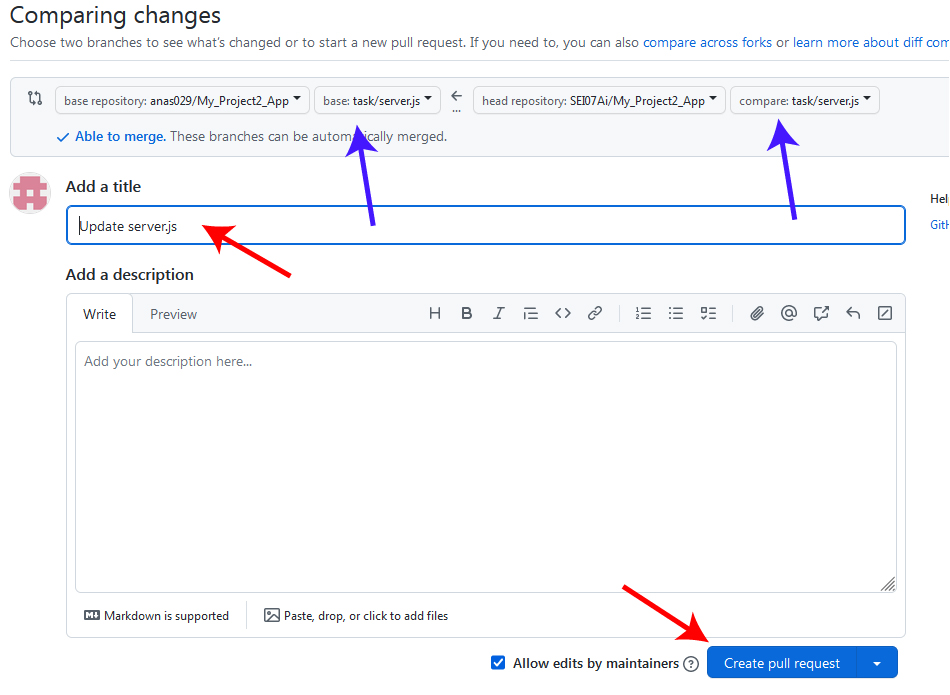
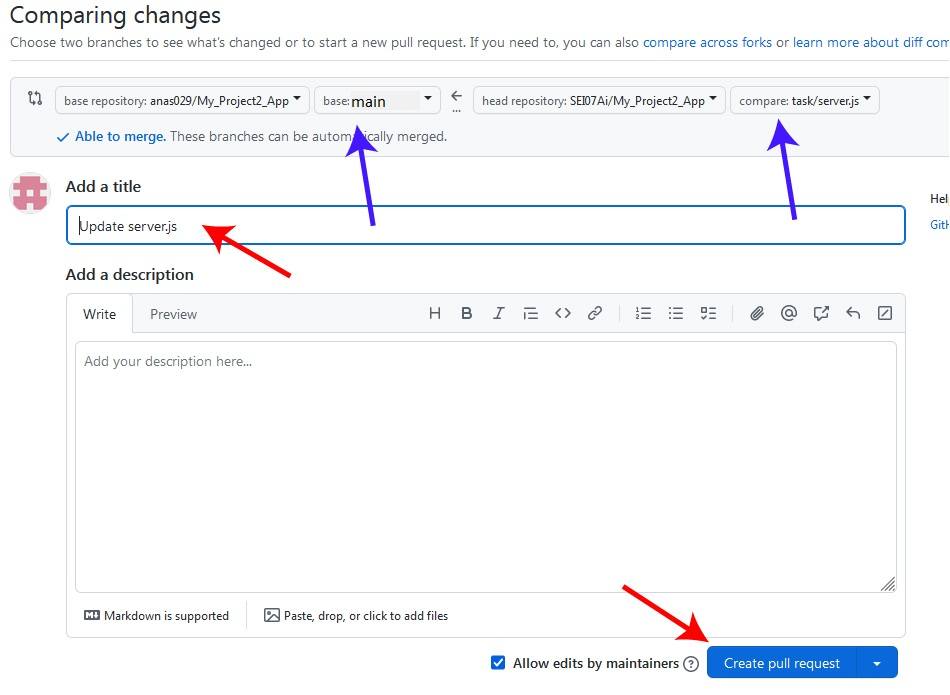
change branch name to main

diff --git a/README.md b/README.md
@@ -9,45 +9,45 @@ This README provides a comprehensive guide for team leader and team members on s
 1. Navigate to your GitHub account.
 2. Click on the '+' icon in the top right corner and select "New repository".
 
-    ![New Repo](./images/new_repo.jpg)
+   ![New Repo](./images/new_repo.jpg)
 
 3. Fill in the repository name, description, and choose visibility options.
-4. Initialize with a README if needed.
+4. Initialize with a README. And gitignore if needed.
 5. Click "Create repository."
 
-    ![Create Repo](./images/create_repo.jpg)
+   ![Create Repo](./images/create_repo.jpg)
 
 ## 2. Set Up Rules: `Team Leader`
 
 1. Click on the "Settings" tab.
 
-    ![Settings Repo](./images/settings.jpg)
+   ![Settings Repo](./images/settings.jpg)
 
 2. In the left sidebar, click on "Branches".
 
-    ![Branches](./images/branches.jpg)
+   ![Branches](./images/branches.jpg)
 
 3. Under the "Branch protection rules" section, click on the "Add branch protection rule" button.
 
-    ![Branches](./images/protection.jpg)
+   ![Branches](./images/protection.jpg)
 
 4. Type "main" in "Branch name pattern"
 
-    ![Branches](./images/main_branch.jpg)
+   ![Branches](./images/main_branch.jpg)
 
 5. Check "Require a pull request before merging"
 
-    ![Branches](./images/Require_pull.jpg)
+   ![Branches](./images/Require_pull.jpg)
 
 6. Click on "Create".
 
-    ![Branches](./images/rule_create.jpg)
+   ![Branches](./images/rule_create.jpg)
 
 ## 3. Clone the Repository: `Team Leader`
 
 1. On your repository, click the "Code" button and copy the repository URL.
 
-    ![Clone Repo](./images/clone_repo.jpg)
+   ![Clone Repo](./images/clone_repo.jpg)
 
 2. Open your terminal and run:
 
@@ -93,17 +93,17 @@ git push --set-upstream origin your-branch-name
 
 2. Click on the "Fork" button in the top right corner of the repository page and then "Create a new fork".
 
-    ![Clone Repo](./images/fork.jpg)
+   ![Clone Repo](./images/fork.jpg)
 
 3. Uncheck "Copy the main branch only" and click "Create fork"
 
-    ![Clone Repo](./images/create_fork.jpg)
+   ![Clone Repo](./images/create_fork.jpg)
 
 ## 5. Clone the Repository: `Team member`
 
 1. Make sure your are on your repository, click the "Code" button and copy the repository URL.
 
-    ![Clone Repo](./images/clone_TM.jpg)
+   ![Clone Repo](./images/clone_TM.jpg)
 
 2. Open your terminal and run:
 
@@ -166,15 +166,15 @@ Once you pushed your changes, GitHub will promote you to create a pull request.
 
 1. Click on "Compare & pull request"
 
-    ![pull request](./images/Pull_request.jpg)
+   ![pull request](./images/Pull_request.jpg)
 
-2. Make sure you are requesting a pull from and to the correct branches. Then, click on "Create pull request"
+2. Make sure you are requesting a pull from the correct branch to main branch. Then, click on "Create pull request"
 
-    ![Create pull request](./images/Create_Pull_request.jpg)
+   ![Create pull request](./images/Create_Pull_request.jpg)
 
-    If there is no conflict you should see a message like this.
+   If there is no conflict you should see a message like this.
 
-    ![No conflict](./images/no_conflict.jpg)
+   ![No conflict](./images/no_conflict.jpg)
 
 ## 9. Accept Pull Request: `Team Leader`
 
@@ -182,36 +182,36 @@ Team leader will accept the change and merge to the main repo.
 
 1. On your (team leader) project repository, click on "Pull requests".
 
-    ![new_pull_request](./images/new_pull_request.jpg)
+   ![new_pull_request](./images/new_pull_request.jpg)
 
 2. Click on the pull request you want to accept and merge.
 
-    ![new_pull_request](./images/pull_request_name.jpg)
+   ![new_pull_request](./images/pull_request_name.jpg)
 
 3. If there is no conflict, Click on "Merge pull request".
 
-    ![merge_pull_request](./images/merger_pull_request.jpg)
+   ![merge_pull_request](./images/merger_pull_request.jpg)
 
 4. Click on "Confirm merge".
 
-    ![confirm_merge](./images/confirm_merge.jpg)
+   ![confirm_merge](./images/confirm_merge.jpg)
 
-    Once you are 100% sure about the new merge, you can create a pull request to merge this branch to main branch.
+   Once you are 100% sure about the new merge, you can create a pull request to merge this branch to main branch.
 
 5. Under pull requests, click on "New pull request".
 
-    ![merge_to_main](./images/merge_to_main.jpg)
+   ![merge_to_main](./images/merge_to_main.jpg)
 
 6. Make sure base branch is "main" and compare branch is the branch with the changes you want to merge.
    ![main_create_PR](./images/main_create_PR.jpg)
 
 7. Add a meaningful title and description then click on "Create pull request" and "Merge".
 
-    ![merge_main_create_PR](./images/merge_main_create_PR.jpg)
+   ![merge_main_create_PR](./images/merge_main_create_PR.jpg)
 
-    ![merge_main_create_PR](./images/confirm_merge_main_create_PR.jpg)
+   ![merge_main_create_PR](./images/confirm_merge_main_create_PR.jpg)
 
-    ![merge_main_create_PR](./images/confirm_merge_.jpg)
+   ![merge_main_create_PR](./images/confirm_merge_.jpg)
 
 ## 10. Update Local Git repository: `Team Leader`
 
